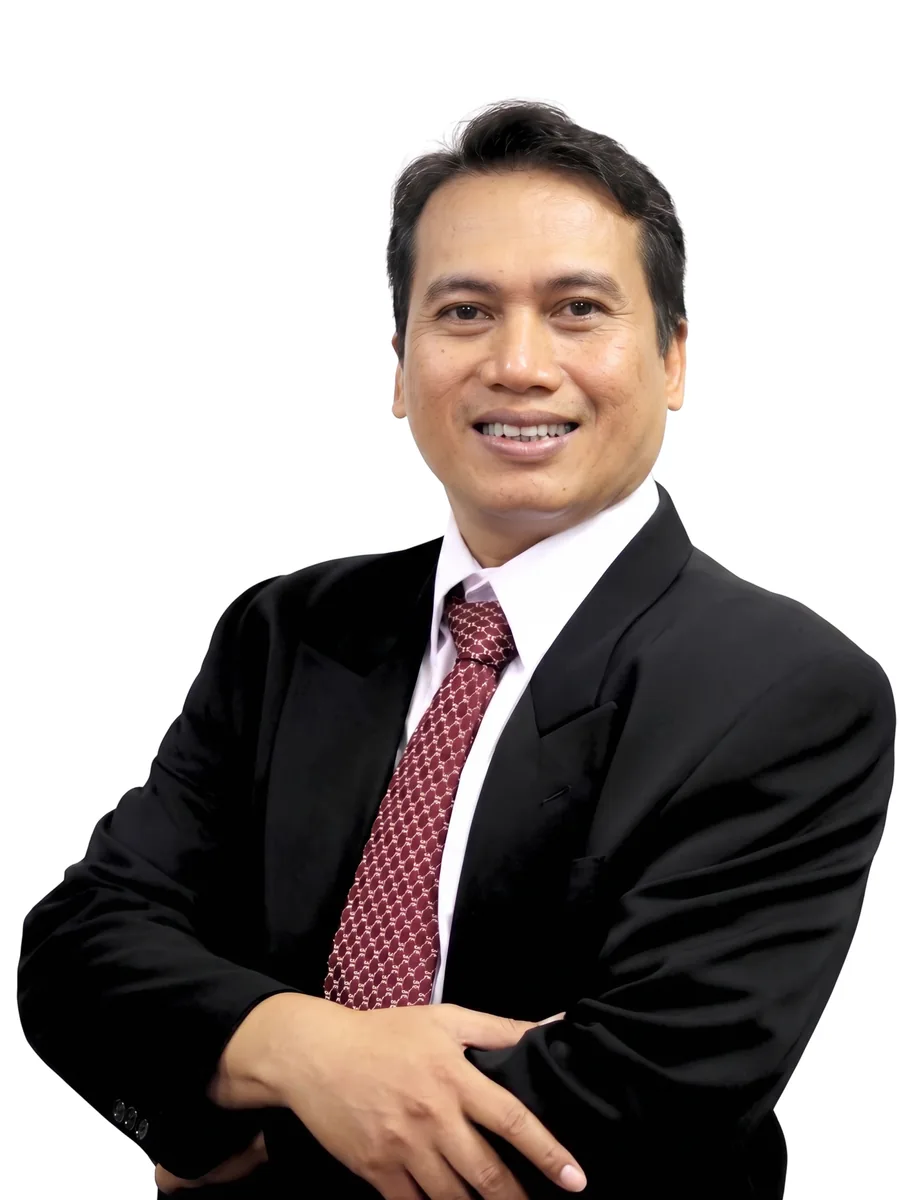
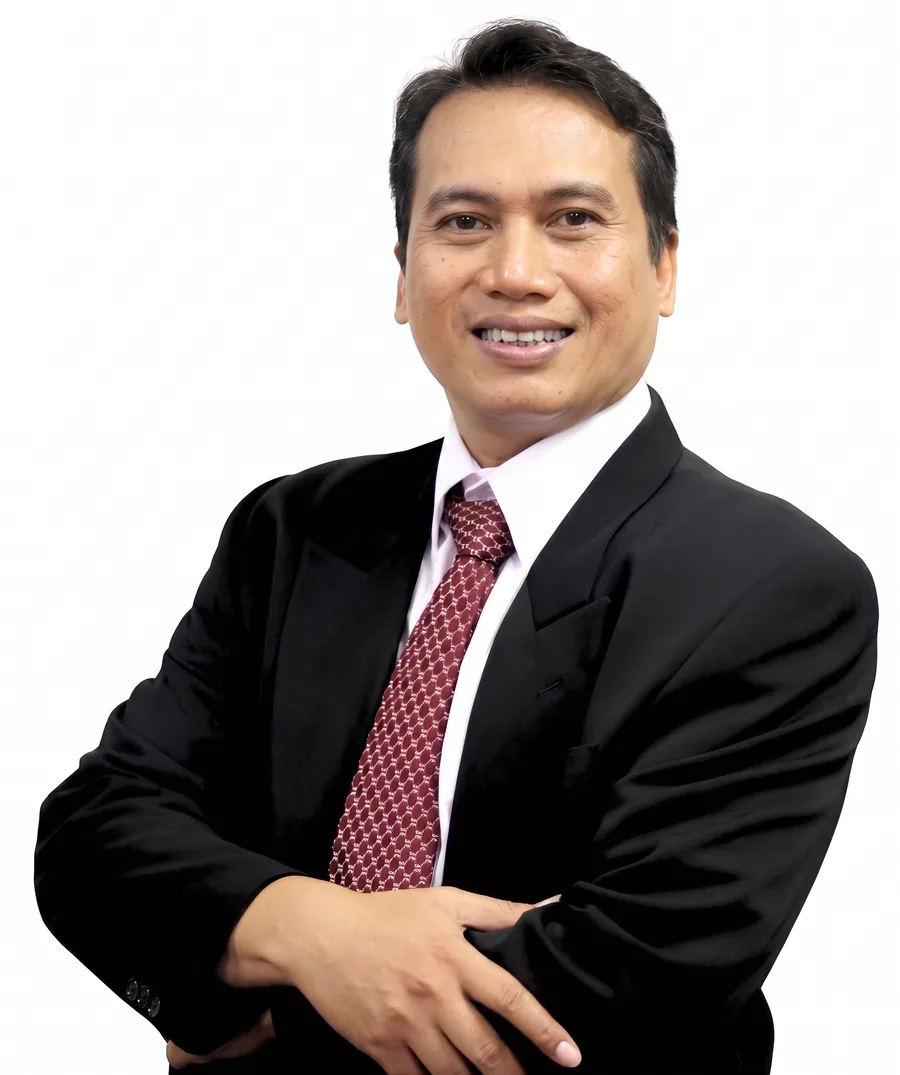
Update Affan portrait and add INAGRITECH sponsors (CPI, PERTETA Yogyakarta)
Replace Mohammad Affan Fajar Falah's portrait with the newer photo.
Populate the exhibition Sponsors & supporters section with Cendekia Prima
Inovasi (existing partner logo) and PERTETA Yogyakarta (the "jogja"
variant, added as perteta-jogja.webp).

diff --git a/web/src/lib/exhibition.ts b/web/src/lib/exhibition.ts
@@ -13,6 +13,7 @@ import {
   Warehouse,
 } from "lucide-react";
 import type { LucideIcon } from "lucide-react";
+import { partnerLogo } from "./assets";
 
 // Tag used to surface event coverage (news, daily reports, after report) from
 // Field Notes on the exhibition page. Articles tagged with this in /admin
@@ -113,10 +114,14 @@ export type Sponsor = {
 };
 
 // Sponsors and supporting organizations.
-// TODO: add sponsor logos here when confirmed, e.g.
-//   { name: "Sponsor Name", logo: partnerLogo("sponsor-file.png") },
 // While empty, the exhibition page shows a "coming soon" placeholder.
-export const SPONSORS: Sponsor[] = [];
+export const SPONSORS: Sponsor[] = [
+  {
+    name: "Cendekia Prima Inovasi",
+    logo: partnerLogo("cendekia-prima-inovasi.png"),
+  },
+  { name: "PERTETA Yogyakarta", logo: partnerLogo("perteta-jogja.webp") },
+];
 
 export type ExhibitionDoc = {
   title: string;
